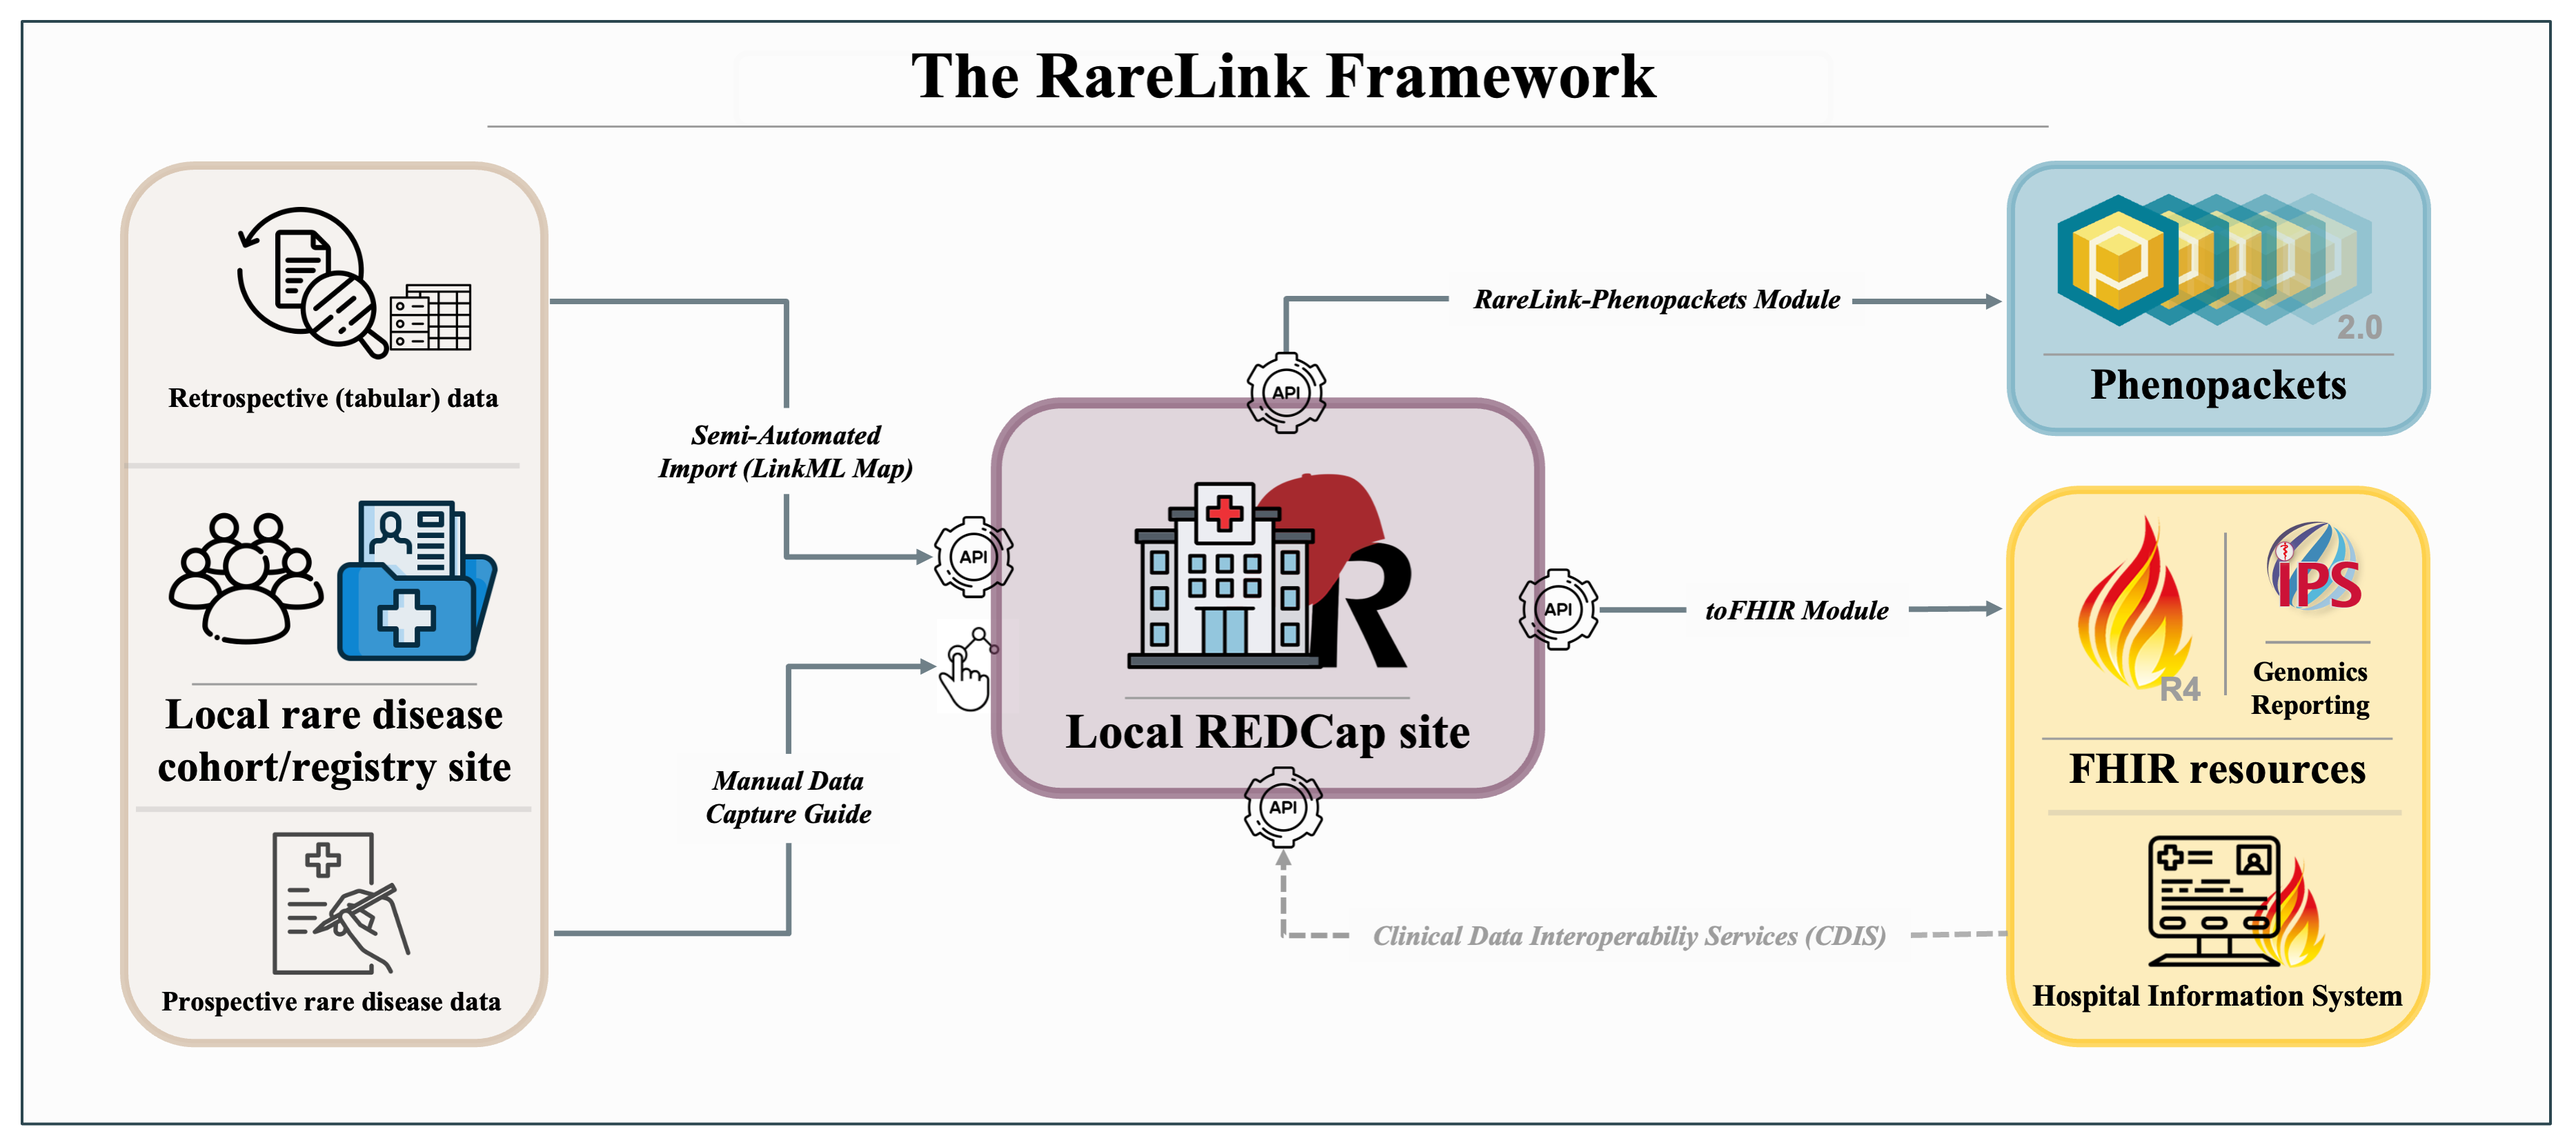
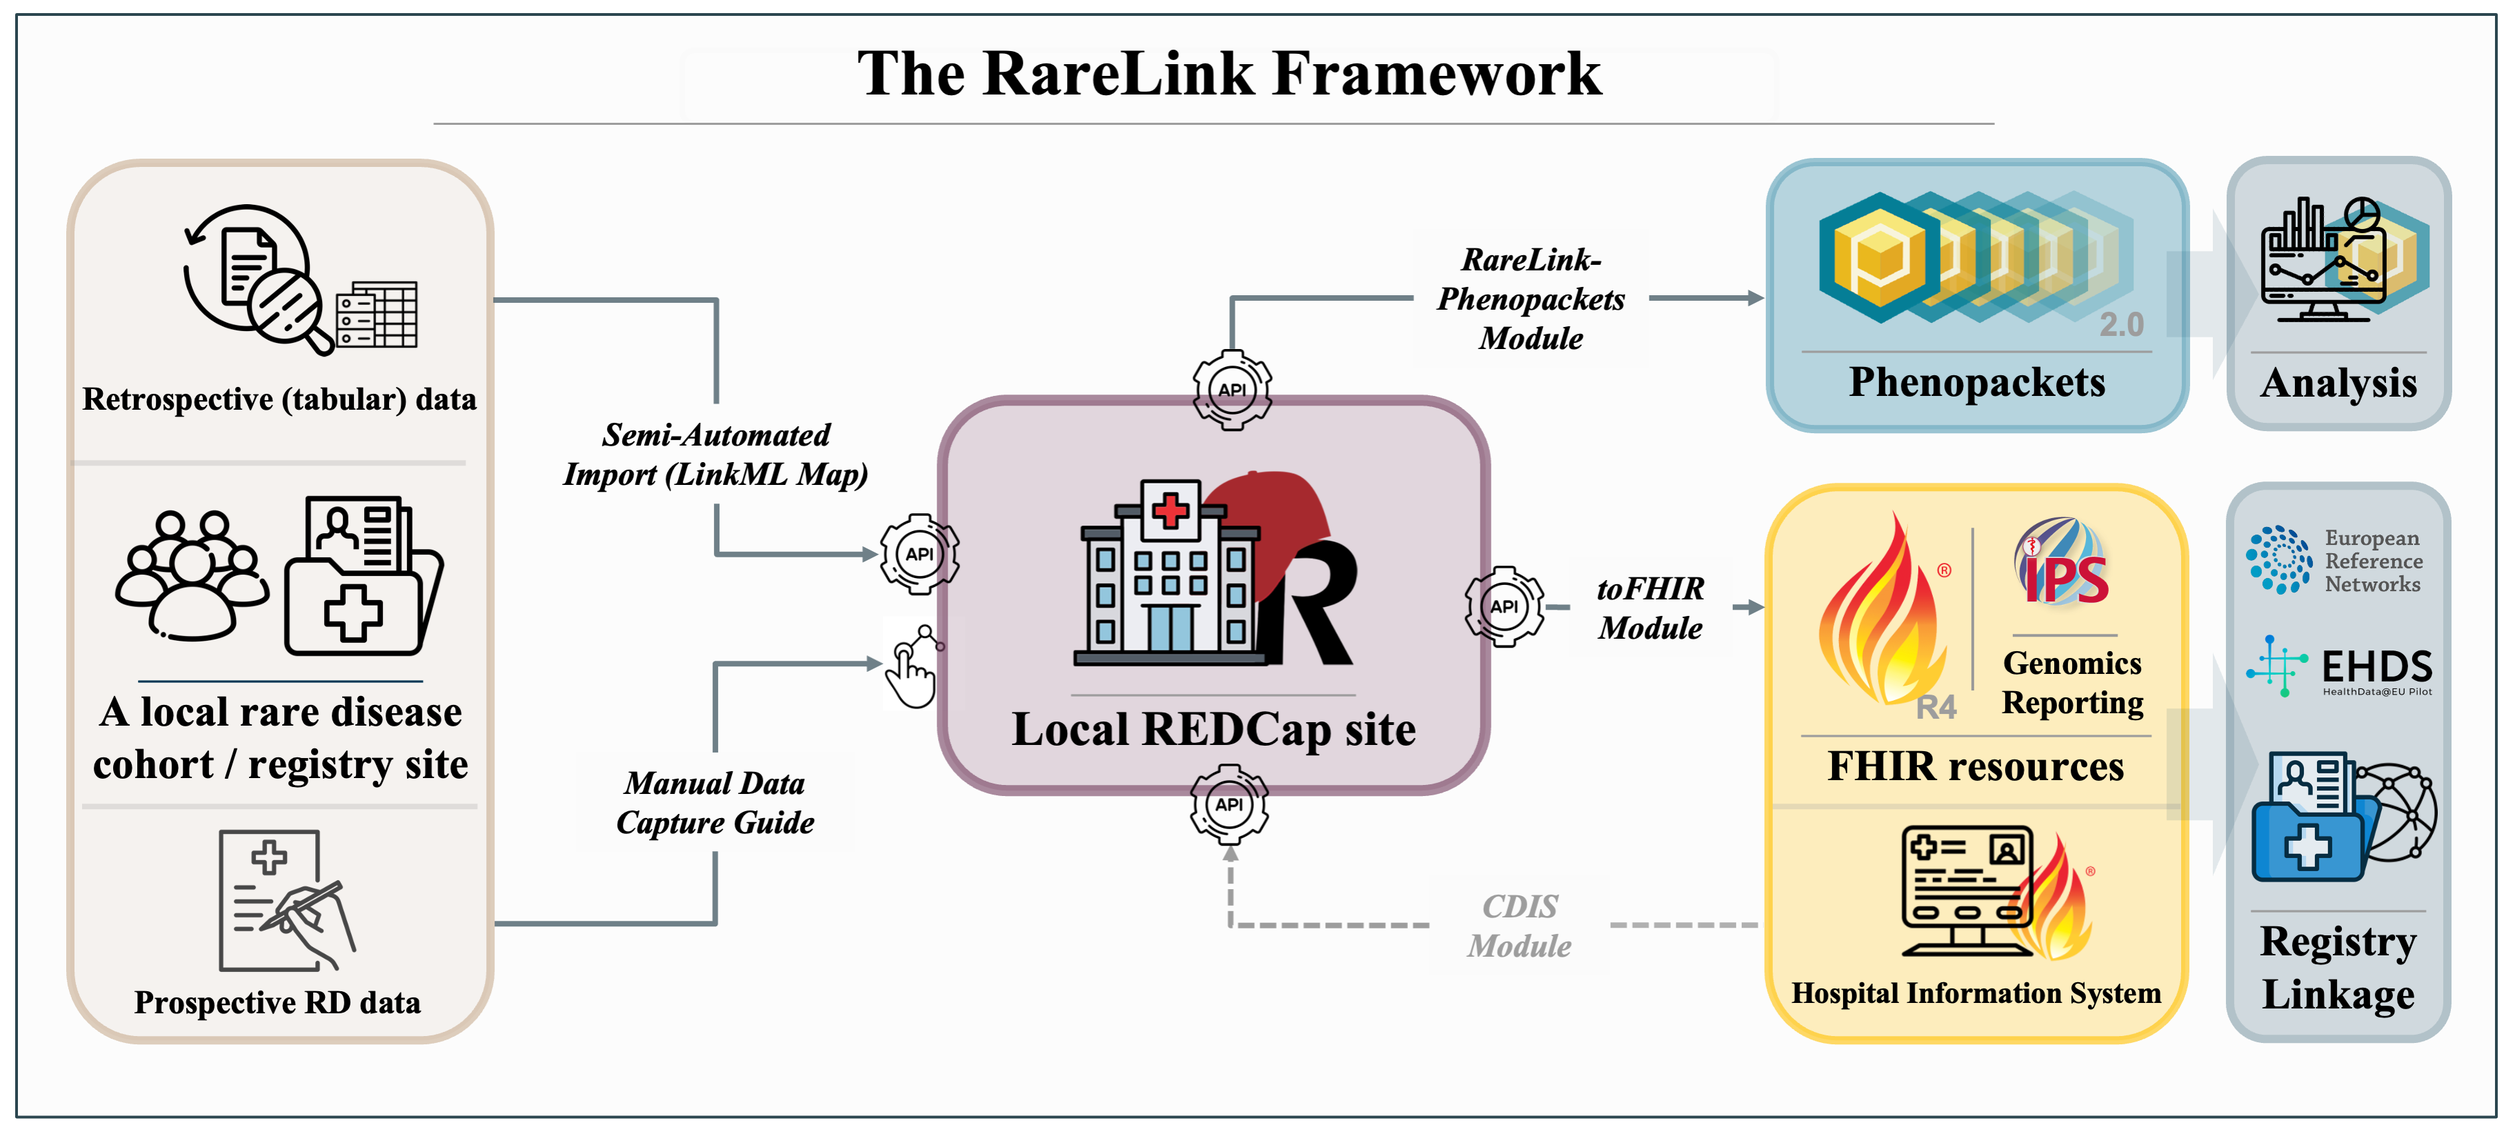
feat: Add RareLink core modules overview images to documentation

Changed region(s): [[0.0, 0.031, 1.0, 0.9927], [0.0, 0.0, 0.9918, 0.0931], [0.4649, 0.3102, 0.5269, 0.3723]]

diff --git a/docs/index.rst b/docs/index.rst
@@ -44,7 +44,12 @@ ________________________________________________________________________________
 
 ________________________________________________________________________________
 
-The documentation is structured as follows:
+The documentation is structured as follows: 
+
+.. figure:: _static/res/rarelink_docs.png
+
+    Overview of the five RareLink documentation components.
+    
 
 Sections
 ---------

diff --git a/docs/2_rarelink_framework/2_1_rarelink_overview.rst b/docs/2_rarelink_framework/2_1_rarelink_overview.rst
@@ -37,6 +37,10 @@ ________________________________________________________________________________
 RareLink Framework components
 -----------------------------
 
+.. figure:: ../_static/res/rarelink_core_modules.png
+
+    Overview of the five RareLink core RareLink modules.
+
 _____________________________________________________________________________________
 
 Semi-Automatic Import
